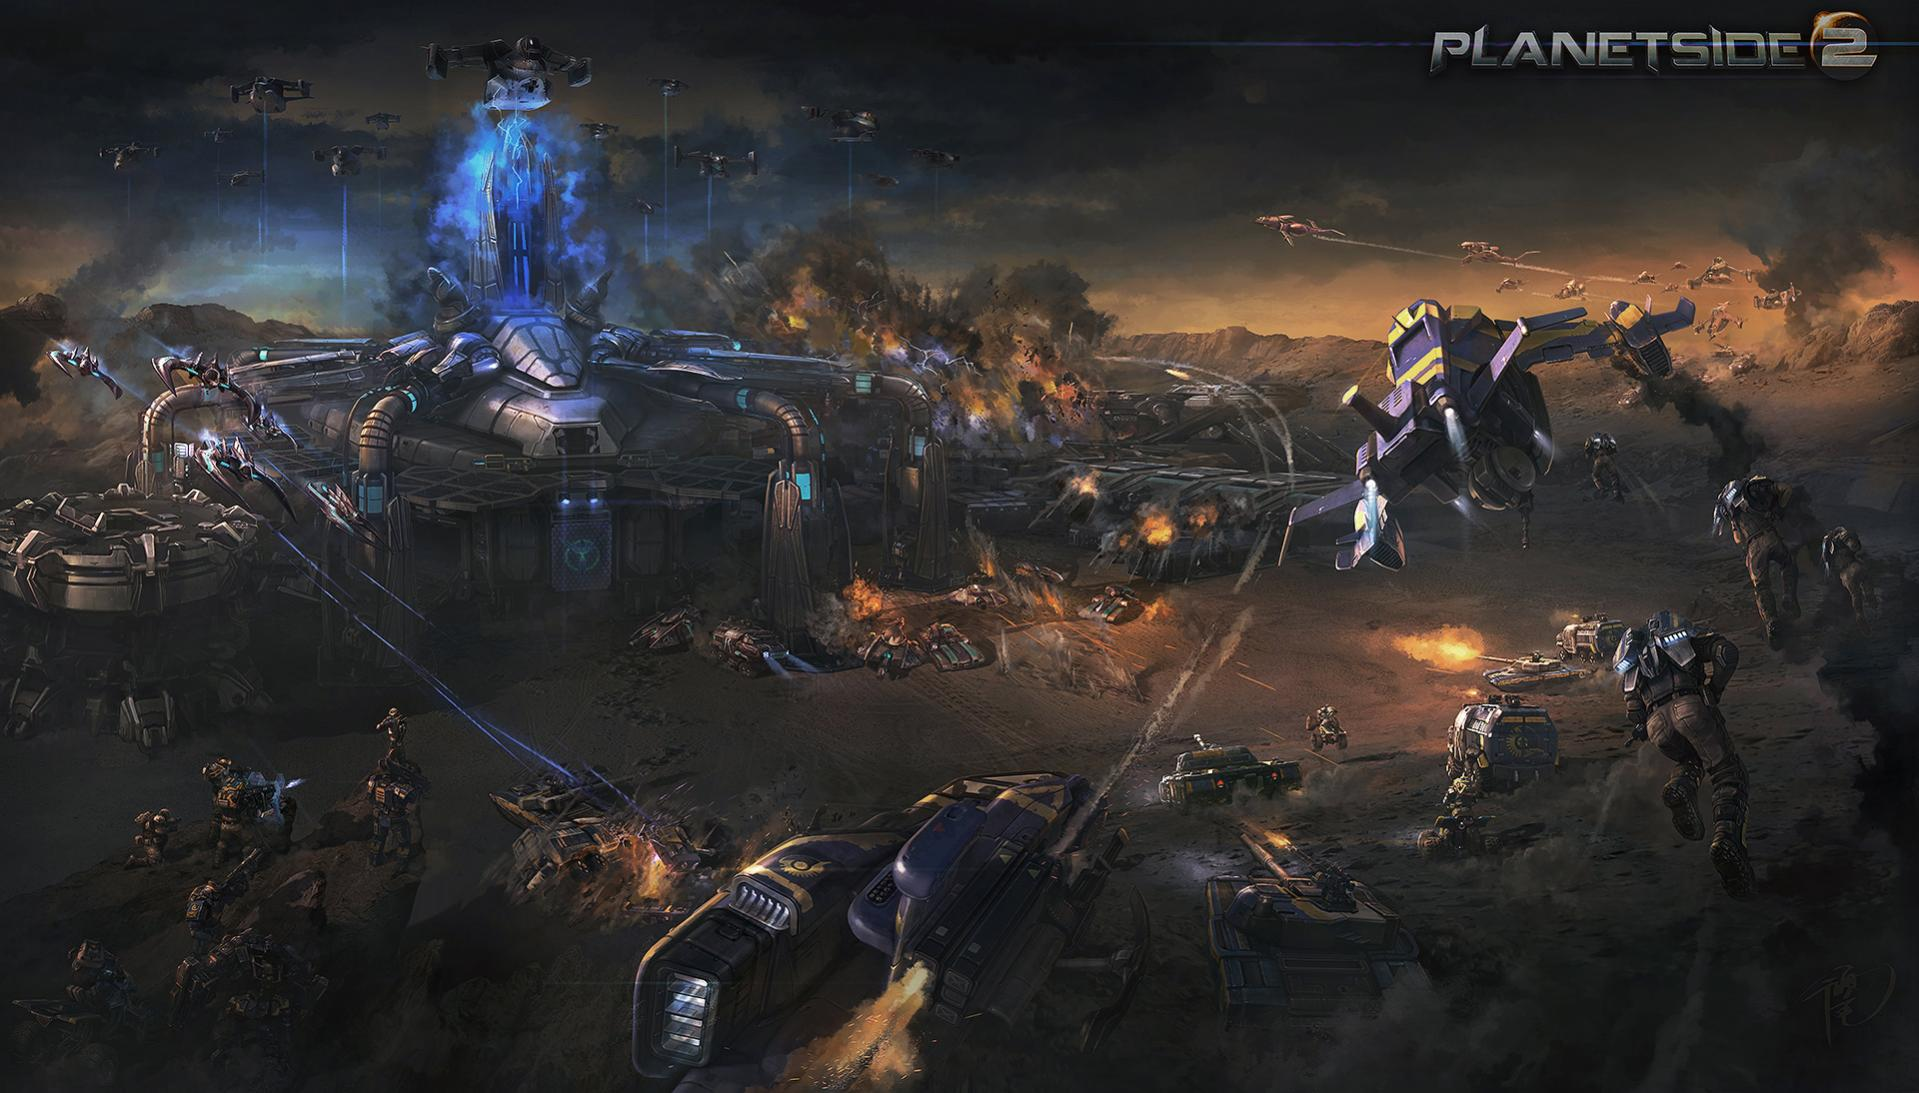
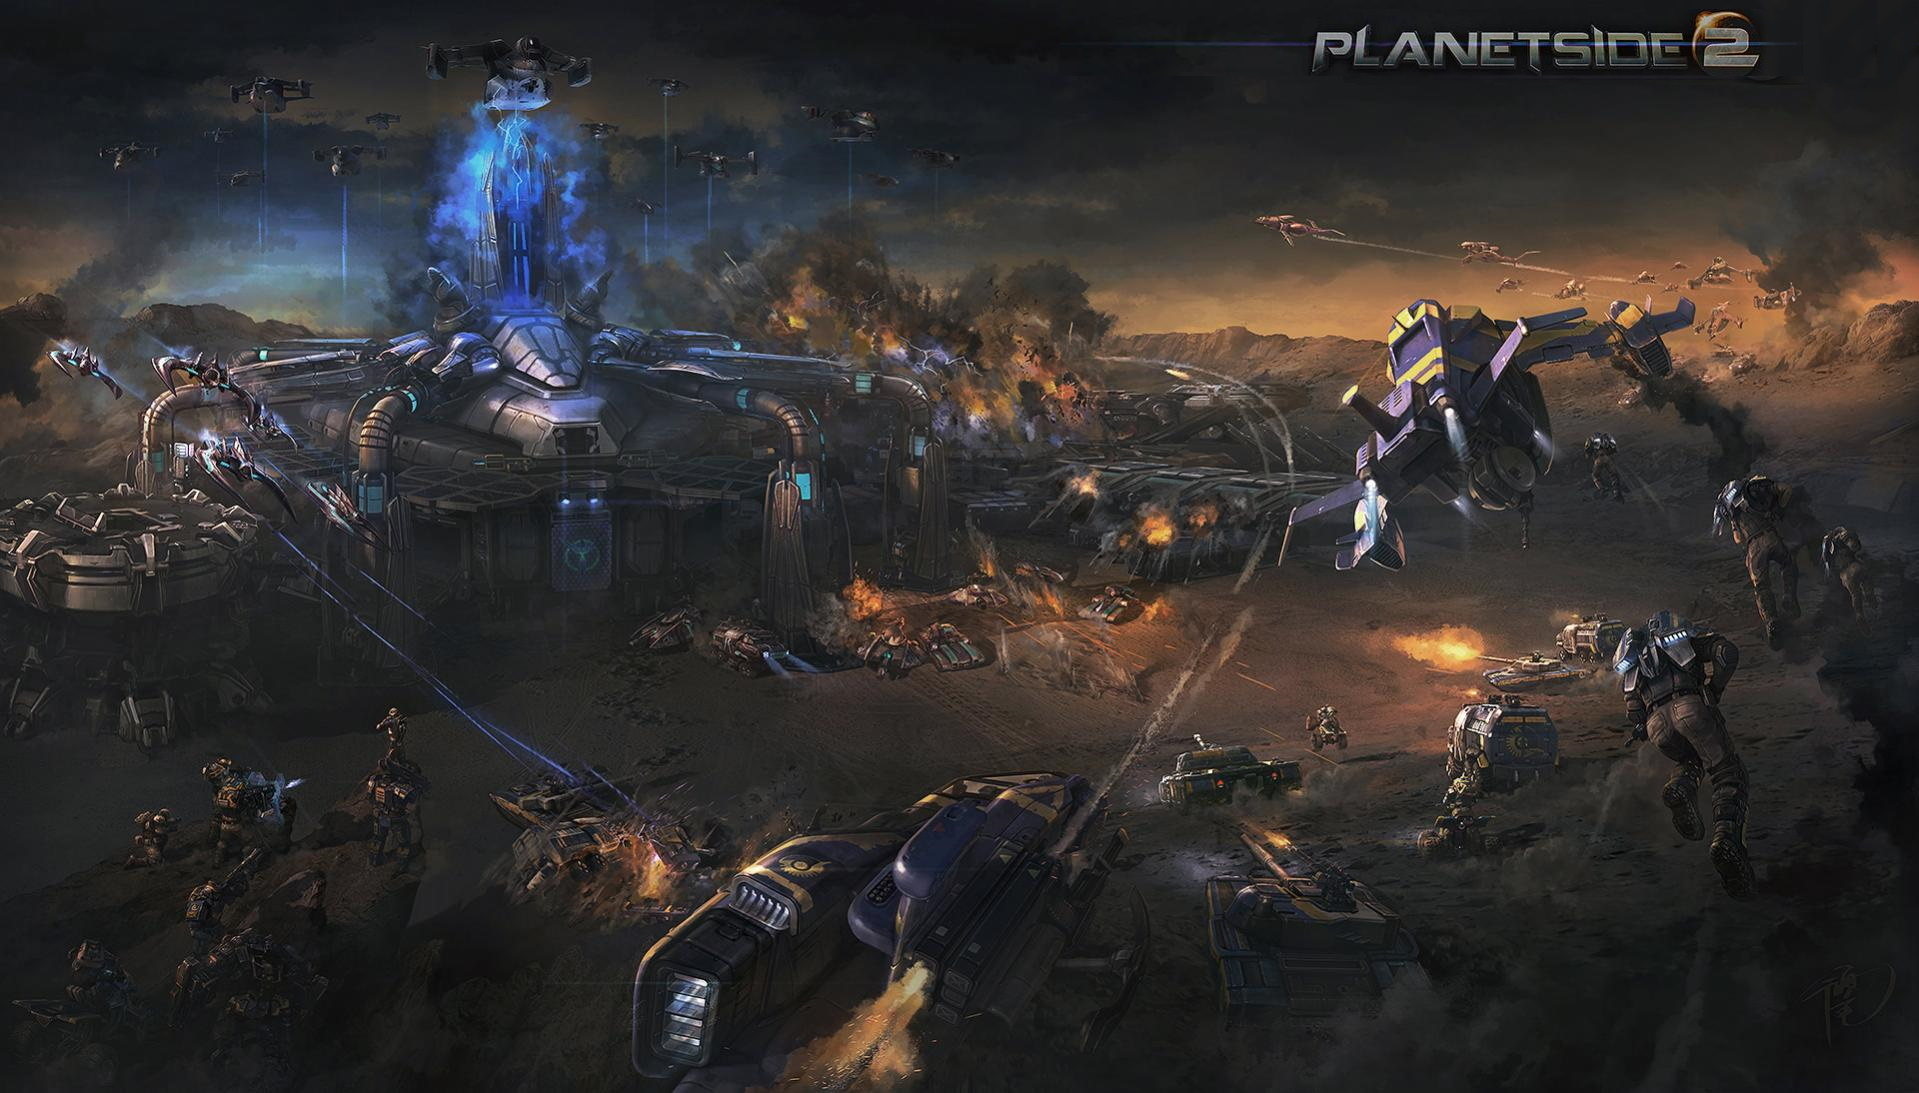
Small visual updates and number rounding for stats

Changed region(s): [[0.6764, 0.0, 0.9838, 0.0622]]

diff --git a/src/app/data/character.ts b/src/app/data/character.ts
@@ -63,12 +63,12 @@ export class Character {
     this.total_captures = captures;
     this.total_defenses = defenses;
 
-    this.br = br['value'];
-    this.br_progress = br['percent_to_next'];
+    this.br = parseFloat(br['value']);
+    this.br_progress = parseFloat(br['percent_to_next']);
 
     this.total_certs = certs['earned_points'];
-    this.certs = certs['available_points'];
-    this.certs_progress = certs['percent_to_next'];
+    this.certs = parseFloat(certs['available_points']);
+    this.certs_progress = parseFloat(certs['percent_to_next']);
 
     // Initialize playtime map
     this.class_playtime = new Map([
@@ -82,14 +82,14 @@ export class Character {
 
     // Initialize kill and deaths map
     this.kills = new Map([
-      ['all_time', [0,0,0]],
+      ['all time', [0,0,0]],
       ['monthly', [0,0,0]],
       ['weekly', [0,0,0]],
       ['daily', [0,0,0]]
     ]);
 
     this.deaths = new Map([
-      ['all_time', [0,0,0]],
+      ['all time', [0,0,0]],
       ['monthly', [0,0,0]],
       ['weekly', [0,0,0]],
       ['daily', [0,0,0]]
@@ -118,7 +118,7 @@ export class Character {
       ['max', 0]
     ]);
 
-    // Array indices represent total deaths all_time, monthly, weekly, and daily
+    // Array indices represent total deaths all time, monthly, weekly, and daily
     this.class_deaths = new Map([
       ['infiltrator', 0],
       ['light assault', 0],
@@ -190,7 +190,7 @@ export class Character {
   // Loads data related to class playtime and vehicle time.
   //
   // Maps infantry class to an array representing:
-  //  all_time
+  //  all time
   //  monthly
   //  weekly
   //  daily
@@ -202,35 +202,35 @@ export class Character {
   // data2: json for vehicle data
   loadPlaytimeData(data, data2){
     // Load all time data. Convert time to hrs
-    this.class_playtime.get('infiltrator')[0] += data[4]['value_forever']/3600;
-    this.class_playtime.get('light assault')[0] += data[5]['value_forever']/3600;
-    this.class_playtime.get('medic')[0] += data[6]['value_forever']/3600;
-    this.class_playtime.get('engineer')[0] += data[7]['value_forever']/3600;
-    this.class_playtime.get('heavy assault')[0] += data[8]['value_forever']/3600;
-    this.class_playtime.get('max')[0] += data[9]['value_forever']/3600;
+    this.class_playtime.get('infiltrator')[0] += Math.floor(data[4]['value_forever']/3600);
+    this.class_playtime.get('light assault')[0] += Math.floor(data[5]['value_forever']/3600);
+    this.class_playtime.get('medic')[0] += Math.floor(data[6]['value_forever']/3600);
+    this.class_playtime.get('engineer')[0] += Math.floor(data[7]['value_forever']/3600);
+    this.class_playtime.get('heavy assault')[0] += Math.floor(data[8]['value_forever']/3600);
+    this.class_playtime.get('max')[0] += Math.floor(data[9]['value_forever']/3600);
 
     // Load Monthly data. Convert time to hrs
-    this.class_playtime.get('infiltrator')[1] += data[4]['value_monthly']/3600;
-    this.class_playtime.get('light assault')[1] += data[5]['value_monthly']/3600;
-    this.class_playtime.get('medic')[1] += data[6]['value_monthly']/3600;
-    this.class_playtime.get('engineer')[1] += data[7]['value_monthly']/3600;
-    this.class_playtime.get('heavy assault')[1] += data[8]['value_monthly']/3600;
-    this.class_playtime.get('max')[1] += data[9]['value_monthly']/3600;
+    this.class_playtime.get('infiltrator')[1] += Math.floor(data[4]['value_monthly']/3600);
+    this.class_playtime.get('light assault')[1] += Math.floor(data[5]['value_monthly']/3600);
+    this.class_playtime.get('medic')[1] += Math.floor(data[6]['value_monthly']/3600);
+    this.class_playtime.get('engineer')[1] += Math.floor(data[7]['value_monthly']/3600);
+    this.class_playtime.get('heavy assault')[1] += Math.floor(data[8]['value_monthly']/3600);
+    this.class_playtime.get('max')[1] += Math.floor(data[9]['value_monthly']/3600);
 
     // Load weekly data. Convert time to hrs
-    this.class_playtime.get('light assault')[2] += data[5]['value_weekly']/3600;
-    this.class_playtime.get('medic')[2] += data[6]['value_weekly']/3600;
-    this.class_playtime.get('engineer')[2] += data[7]['value_weekly']/3600;
-    this.class_playtime.get('heavy assault')[2] += data[8]['value_weekly']/3600;
-    this.class_playtime.get('max')[2] += data[9]['value_weekly']/3600;
+    this.class_playtime.get('light assault')[2] += Math.floor(data[5]['value_weekly']/3600);
+    this.class_playtime.get('medic')[2] += Math.floor(data[6]['value_weekly']/3600);
+    this.class_playtime.get('engineer')[2] += Math.floor(data[7]['value_weekly']/3600);
+    this.class_playtime.get('heavy assault')[2] += Math.floor(data[8]['value_weekly']/3600);
+    this.class_playtime.get('max')[2] += Math.floor(data[9]['value_weekly']/3600);
 
     // Load daily data. Convert time to hrs
-    this.class_playtime.get('infiltrator')[3] += data[4]['value_daily']/3600;
-    this.class_playtime.get('light assault')[3] += data[5]['value_daily']/3600;
-    this.class_playtime.get('medic')[3] += data[6]['value_daily']/3600;
-    this.class_playtime.get('engineer')[3] += data[7]['value_daily']/3600;
-    this.class_playtime.get('heavy assault')[3] += data[8]['value_daily']/3600;
-    this.class_playtime.get('max')[3] += data[9]['value_daily']/3600;
+    this.class_playtime.get('infiltrator')[3] += Math.floor(data[4]['value_daily']/3600);
+    this.class_playtime.get('light assault')[3] += Math.floor(data[5]['value_daily']/3600);
+    this.class_playtime.get('medic')[3] += Math.floor(data[6]['value_daily']/3600);
+    this.class_playtime.get('engineer')[3] += Math.floor(data[7]['value_daily']/3600);
+    this.class_playtime.get('heavy assault')[3] += Math.floor(data[8]['value_daily']/3600);
+    this.class_playtime.get('max')[3] += Math.floor(data[9]['value_daily']/3600);
 
     // Load vehicle playtime
     for(let i=0;i<data2.length;++i){
@@ -238,64 +238,83 @@ export class Character {
       // If data is play time, and is vehicle (id not 0) add time to vehicle key
       if(data2[i]['stat_name'] === 'weapon_play_time' && vehicle_id != '0'){
           if (vehicle_id === '1')
-            this.vehicle_playtime.set('flash',this.vehicle_playtime.get('flash')+data2[i]['value']/3600);
+            this.vehicle_playtime.set('flash',
+            Math.floor(this.vehicle_playtime.get('flash')+data2[i]['value']/3600));
 
           if (vehicle_id === '2')
-            this.vehicle_playtime.set('sunderer',this.vehicle_playtime.get('sunderer')+data2[i]['value']/3600);
+            this.vehicle_playtime.set('sunderer',
+            Math.floor(this.vehicle_playtime.get('sunderer')+data2[i]['value']/3600));
 
           if (vehicle_id === '3')
-            this.vehicle_playtime.set('lightning',this.vehicle_playtime.get('lightning')+data2[i]['value']/3600);
+            this.vehicle_playtime.set('lightning',
+            Math.floor(this.vehicle_playtime.get('lightning')+data2[i]['value']/3600));
 
           if (vehicle_id === '4')
-            this.vehicle_playtime.set('magrider',this.vehicle_playtime.get('magrider')+data2[i]['value']/3600);
+            this.vehicle_playtime.set('magrider',
+            Math.floor(this.vehicle_playtime.get('magrider')+data2[i]['value']/3600));
 
           if (vehicle_id === '5')
-            this.vehicle_playtime.set('vanguard',this.vehicle_playtime.get('vanguard')+data2[i]['value']/3600);
+            this.vehicle_playtime.set('vanguard',
+            Math.floor(this.vehicle_playtime.get('vanguard')+data2[i]['value']/3600));
 
           if (vehicle_id === '6')
-            this.vehicle_playtime.set('prowler',this.vehicle_playtime.get('prowler')+data2[i]['value']/3600);
+            this.vehicle_playtime.set('prowler',
+            Math.floor(this.vehicle_playtime.get('prowler')+data2[i]['value']/3600));
 
           if (vehicle_id === '7')
-            this.vehicle_playtime.set('scythe',this.vehicle_playtime.get('scythe')+data2[i]['value']/3600);
+            this.vehicle_playtime.set('scythe',
+            Math.floor(this.vehicle_playtime.get('scythe')+data2[i]['value']/3600));
 
           if (vehicle_id === '8')
-            this.vehicle_playtime.set('reaver',this.vehicle_playtime.get('reaver')+data2[i]['value']/3600);
+            this.vehicle_playtime.set('reaver',
+            Math.floor(this.vehicle_playtime.get('reaver')+data2[i]['value']/3600));
 
           if (vehicle_id === '9')
-          this.vehicle_playtime.set('mosquito',this.vehicle_playtime.get('mosquito')+data2[i]['value']/3600);
+          this.vehicle_playtime.set('mosquito',
+          Math.floor(this.vehicle_playtime.get('mosquito')+data2[i]['value']/3600));
 
           if (vehicle_id === '10')
-            this.vehicle_playtime.set('liberator',this.vehicle_playtime.get('liberator')+data2[i]['value']/3600);
+            this.vehicle_playtime.set('liberator',
+            Math.floor(this.vehicle_playtime.get('liberator')+data2[i]['value']/3600));
 
           if (vehicle_id === '11')
-            this.vehicle_playtime.set('galaxy',this.vehicle_playtime.get('galaxy')+data2[i]['value']/3600);
+            this.vehicle_playtime.set('galaxy',
+            Math.floor(this.vehicle_playtime.get('galaxy')+data2[i]['value']/3600));
 
           if (vehicle_id === '12')
-            this.vehicle_playtime.set('harasser',this.vehicle_playtime.get('harasser')+data2[i]['value']/3600);
+            this.vehicle_playtime.set('harasser',
+            Math.floor(this.vehicle_playtime.get('harasser')+data2[i]['value']/3600));
 
           if (vehicle_id === '14')
-            this.vehicle_playtime.set('valkyrie',this.vehicle_playtime.get('valkyrie')+data2[i]['value']/3600);
+            this.vehicle_playtime.set('valkyrie',
+            Math.floor(this.vehicle_playtime.get('valkyrie')+data2[i]['value']/3600));
 
           if (vehicle_id === '15')
-            this.vehicle_playtime.set('ant',this.vehicle_playtime.get('ant')+data2[i]['value']/3600);
+            this.vehicle_playtime.set('ant',
+            Math.floor(this.vehicle_playtime.get('ant')+data2[i]['value']/3600));
 
           if (vehicle_id === '2007')
-            this.vehicle_playtime.set('colossus',this.vehicle_playtime.get('colossus')+data2[i]['value']/3600);
+            this.vehicle_playtime.set('colossus',
+            Math.floor(this.vehicle_playtime.get('colossus')+data2[i]['value']/3600));
 
           if (vehicle_id === '2010')
-            this.vehicle_playtime.set('flash',this.vehicle_playtime.get('flash')+data2[i]['value']/3600);
+            this.vehicle_playtime.set('flash',
+            Math.floor(this.vehicle_playtime.get('flash')+data2[i]['value']/3600));
 
           if (vehicle_id === '2019')
             this.vehicle_playtime.set('bastion',this.vehicle_playtime.get('bastion')+data2[i]['value']/3600);
 
           if (vehicle_id === '2030')
-            this.vehicle_playtime.set('javelin',this.vehicle_playtime.get('javelin')+data2[i]['value']/3600);
+            this.vehicle_playtime.set('javelin',
+            Math.floor(this.vehicle_playtime.get('javelin')+data2[i]['value']/3600));
 
           if (vehicle_id === '2125')
-            this.vehicle_playtime.set('javelin',this.vehicle_playtime.get('javelin')+data2[i]['value']/3600);
+            this.vehicle_playtime.set('javelin',
+            Math.floor(this.vehicle_playtime.get('javelin')+data2[i]['value']/3600));
 
           if (vehicle_id === '2129')
-            this.vehicle_playtime.set('javelin',this.vehicle_playtime.get('javelin')+data2[i]['value']/3600);
+            this.vehicle_playtime.set('javelin',
+            Math.floor(this.vehicle_playtime.get('javelin')+data2[i]['value']/3600));
         }// end of if
     }// end of for
   }//end of loadPlaytimeData
@@ -309,9 +328,9 @@ export class Character {
   loadKillsData(data){
     // Load kills by time and faction. Divided by 1 to convert str to int
     let kills = data[16];
-    this.kills.get('all_time')[0] = kills['value_forever_vs']/1;
-    this.kills.get('all_time')[1] = kills['value_forever_nc']/1;
-    this.kills.get('all_time')[2] = kills['value_forever_tr']/1;
+    this.kills.get('all time')[0] = kills['value_forever_vs']/1;
+    this.kills.get('all time')[1] = kills['value_forever_nc']/1;
+    this.kills.get('all time')[2] = kills['value_forever_tr']/1;
 
     this.kills.get('monthly')[0] = kills['value_monthly_vs']/1;
     this.kills.get('monthly')[1] = kills['value_monthly_nc']/1;
@@ -426,9 +445,9 @@ export class Character {
     // iterate through indices containing enemy class
     for(let i=8; i<14;++i){
       // Load deaths by time and faction. Divided by 1 to convert string to int
-      this.deaths.get('all_time')[0] += killer_data[i]['value_forever_vs']/1;
-      this.deaths.get('all_time')[1] += killer_data[i]['value_forever_nc']/1;
-      this.deaths.get('all_time')[2] += killer_data[i]['value_forever_tr']/1;
+      this.deaths.get('all time')[0] += killer_data[i]['value_forever_vs']/1;
+      this.deaths.get('all time')[1] += killer_data[i]['value_forever_nc']/1;
+      this.deaths.get('all time')[2] += killer_data[i]['value_forever_tr']/1;
 
       this.deaths.get('monthly')[0] += killer_data[i]['value_monthly_vs']/1;
       this.deaths.get('monthly')[1] += killer_data[i]['value_monthly_nc']/1;

diff --git a/src/app/app.component.scss b/src/app/app.component.scss
@@ -1,10 +1,10 @@
 .form-style {
-  min-width: 150px;
-  max-width: 500px;
-  width: 100%;
-  background-color: #057589CC;
   border: 3px solid #4CD8E0;
   border-radius: 3px;
+}
+
+mat-label {
+  color: white;
 }
 
 .input-style {
@@ -12,6 +12,7 @@
   max-width: 500px;
   width: 100%;
   background-color: #057589CC;
+  color: white;
 }
 
 .card {
@@ -35,6 +36,12 @@
 p {
   font-size: 18px;
   line-height: 1.3;
+  color: white;
+}
+
+h1 {
+  color: white;
+  font-size: 30px;
 }
 
 .test {
@@ -46,3 +53,24 @@ p {
   center space-around;
   align-items: center;
 }
+
+#loading{
+  position: absolute;
+  left: 50%;
+  top: 50%;
+  z-index: 1;
+  width: 150px;
+  height: 150px;
+  margin: -75px 0 0 -75px;
+  border: 16px solid #f3f3f3;
+  border-radius: 50%;
+  border-top: 16px solid #3498db;
+  width: 120px;
+  height: 120px;
+  animation: spin 2s linear infinite;
+  }
+
+  @keyframes spin {
+    0% { transform: rotate(0deg); }
+    100% { transform: rotate(360deg); }
+  }

diff --git a/src/index.html b/src/index.html
@@ -2,7 +2,7 @@
 <html lang="en">
 <head>
   <meta charset="utf-8">
-  <title>FinalProject</title>
+  <title>Statside 2</title>
   <base href="/">
   <meta name="viewport" content="width=device-width, initial-scale=1">
   <link rel="icon" type="image/x-icon" href="favicon.ico">

diff --git a/src/styles.scss b/src/styles.scss
@@ -15,3 +15,9 @@ html {
   border: 3px solid #4CD8E0;
   border-radius: 3px;
 }
+
+.error {
+  color: white;
+  font-size: 2vw;
+  margin: 5px;
+}
